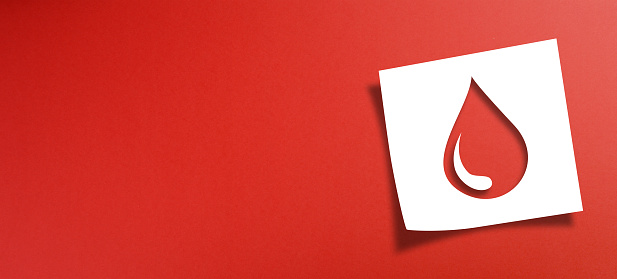
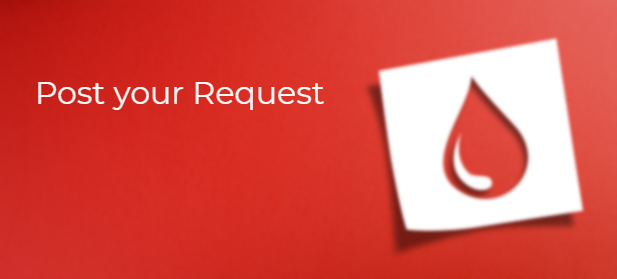
feed slight changes

diff --git a/public/css/requestFeed.css b/public/css/requestFeed.css
@@ -24,8 +24,17 @@ html, body {
 .upper-container {
   position: relative;
   text-align: center;
-  color: white;
+  color: rgb(0, 0, 0);
   height: 80%;
+}
+
+.blobEligibility1{
+  width: 2000px;
+  height: 2000px;
+  top: -500px;
+  left: 40px;
+  position: absolute;
+  z-index: -1;
 }
 
 .centered {
@@ -527,6 +536,28 @@ i.fa-user-circle {
   .upper-container {
     height: 30%;
   }
+
+  
+/* .blobEligibility1{
+  width: 450px;
+  height: 450px;
+  top: -120px;
+  left: -80px;
+  position: absolute;
+  z-index: -1;
+} */
+
+.blobEligibility1{
+  display: none;
+}
+
+.centered{
+  font-size: 0.7em;
+}
+.post-btn{
+   height: 40px;
+   text-align: center;
+}
 
 }
 
